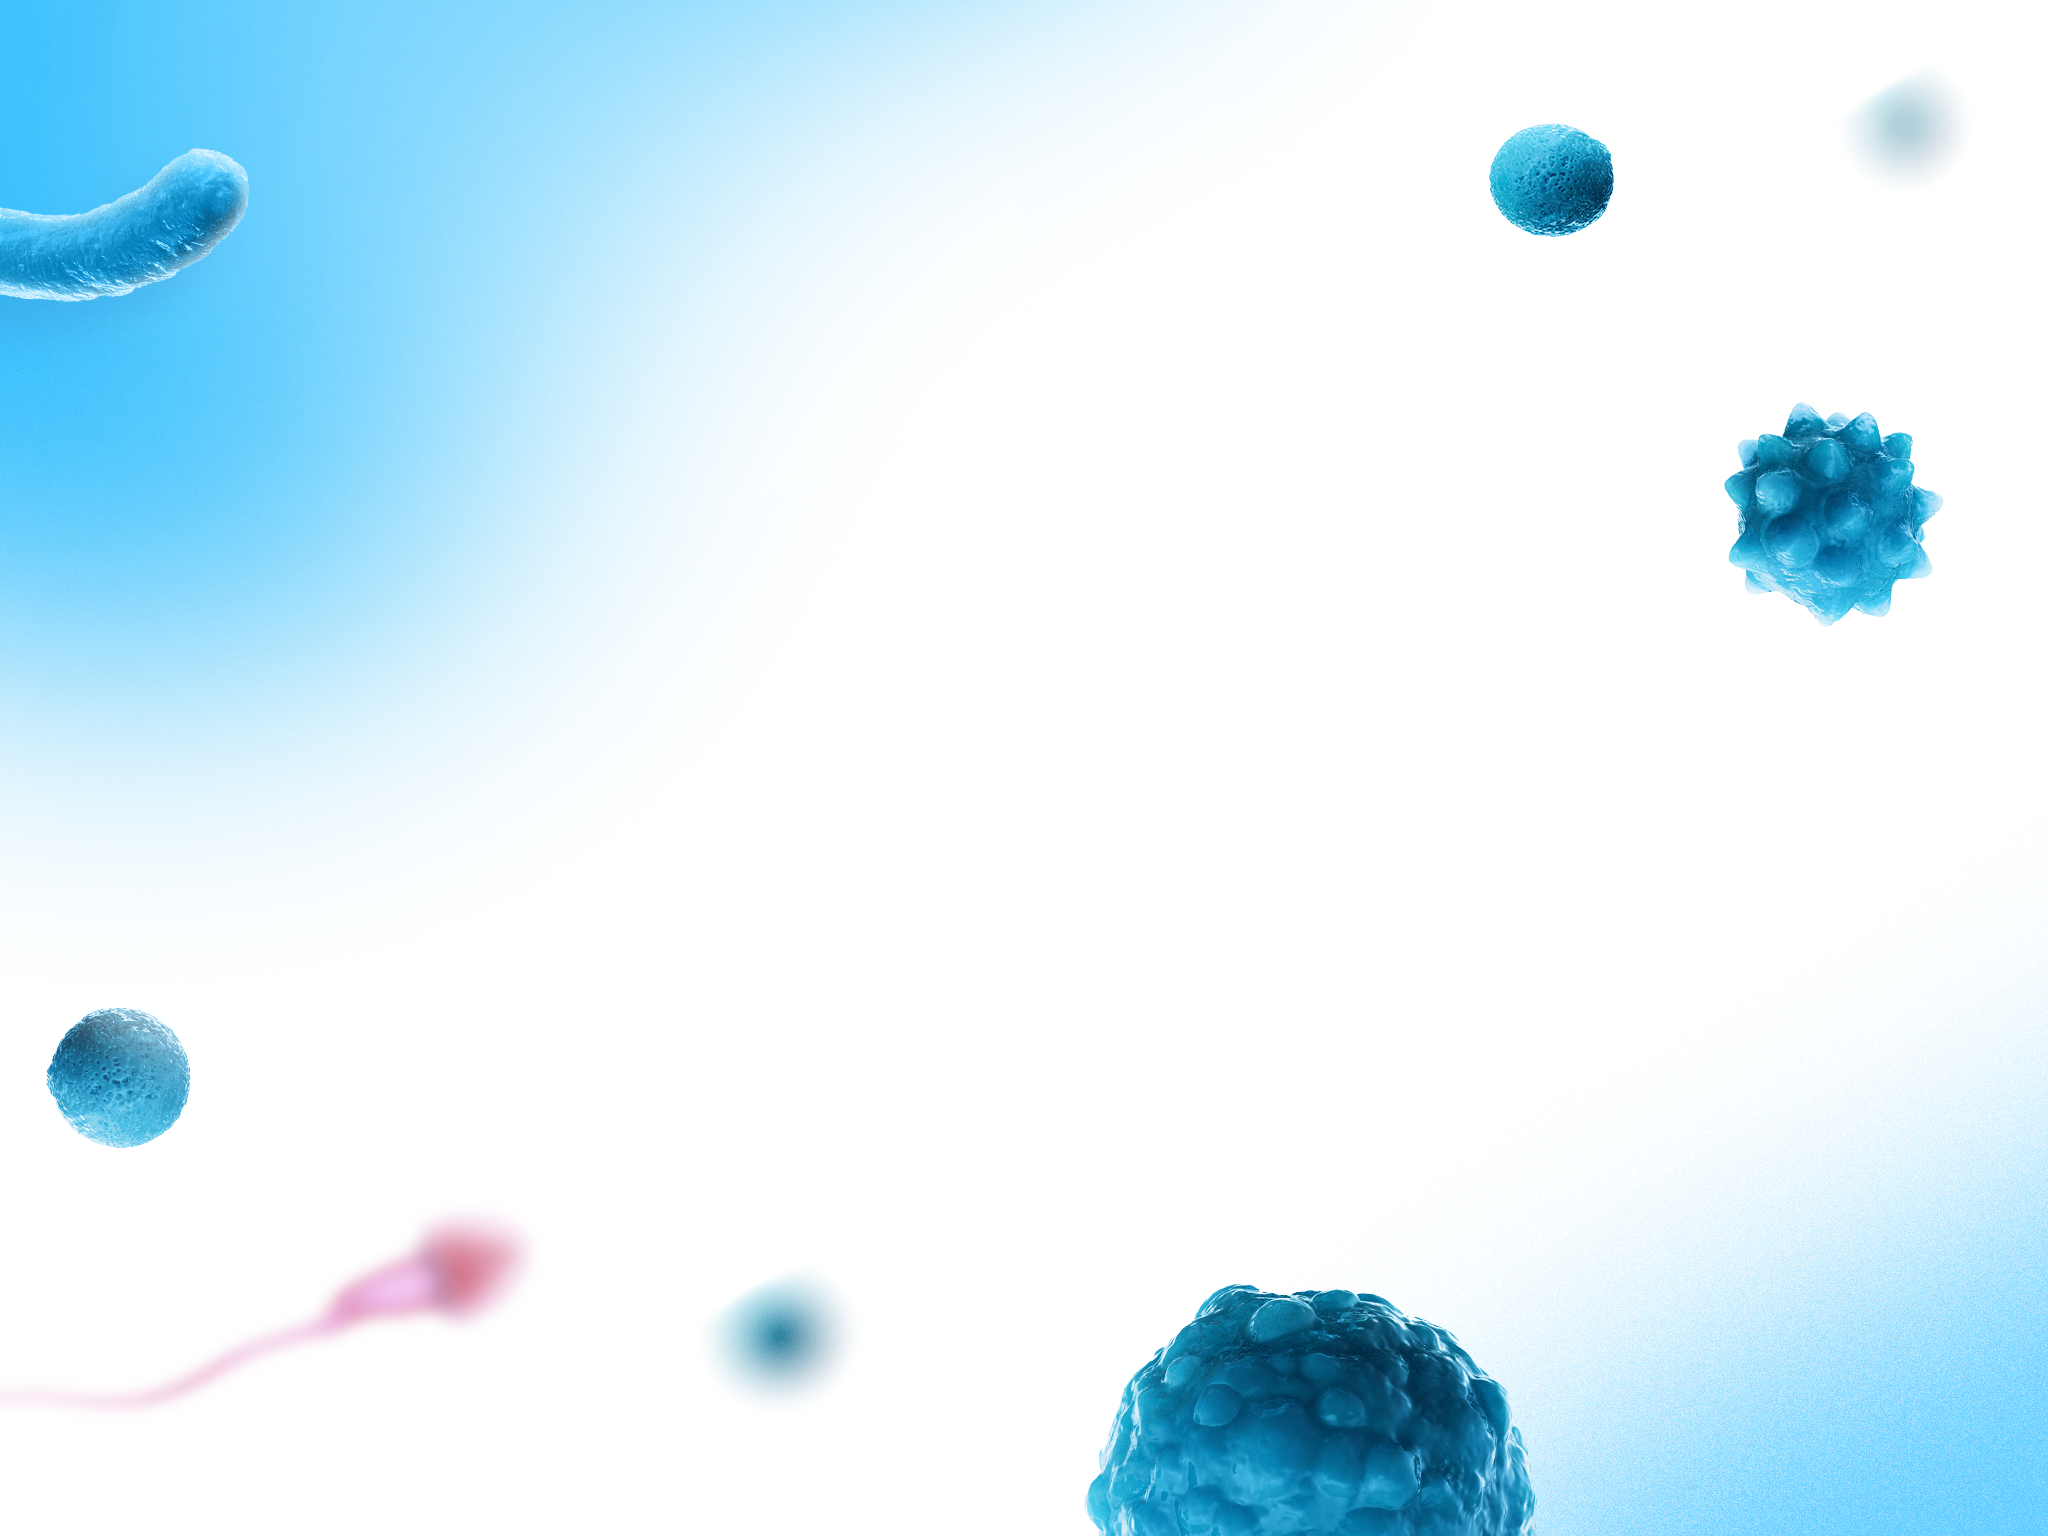
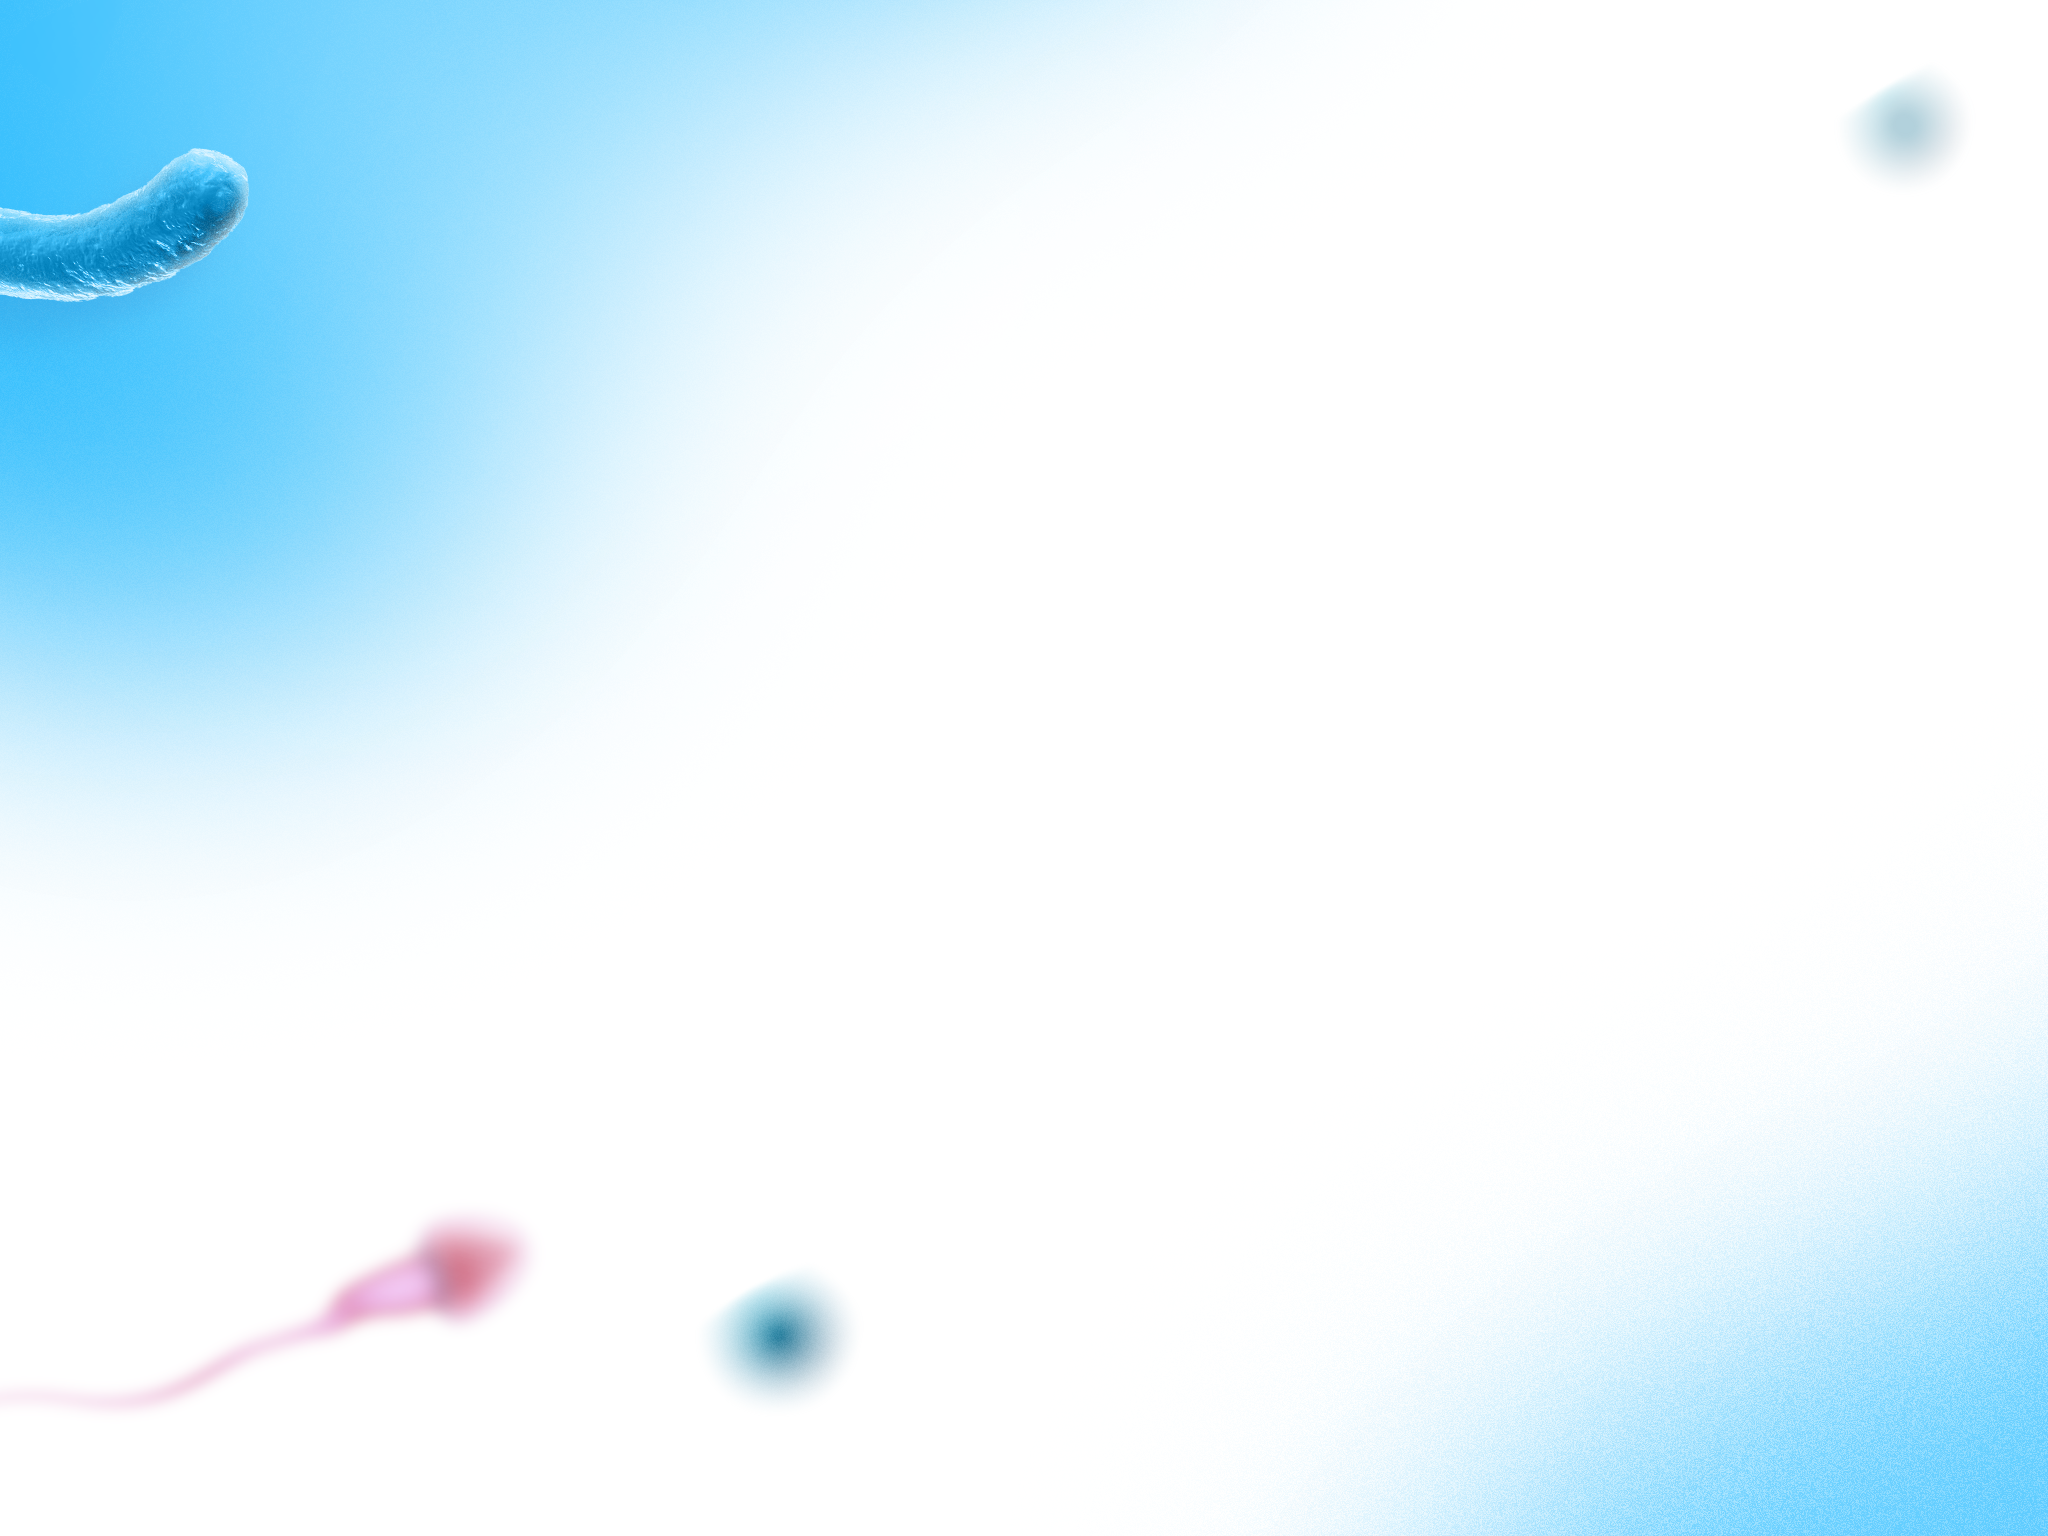
Добавил анимацию декоративным изображениям на 1 слайде

diff --git a/src/widgets/slides/FirstSlide.css b/src/widgets/slides/FirstSlide.css
@@ -19,12 +19,33 @@
 }
 
 .centerBlock__MainHeading {
+    position: relative;
     margin-top: 10px;
     font-size: 6.75rem;
     font-family: 'Gilroy', sans-serif;
     font-weight: 300;
     letter-spacing: 0.2rem;
     line-height: 1.05;
+    z-index: 10;
+}
+
+.centerBlock__FirstAnimatedImage {
+    position: absolute;
+    top: 70px;
+    right: 0;
+    width: 60px;
+    height: 55px;
+    animation: 4.5s ease-in-out 0s infinite firstBacteria;
+}
+
+.centerBlock__SecondAnimatedImage {
+    position: absolute;
+    top: 160px;
+    right: -160px;
+    width: 115px;
+    height: 110px;
+    animation: 20s ease-in-out 0s infinite secondBacteria;
+    z-index: 20;
 }
 
 .centerBlock__DecorationImage {
@@ -33,6 +54,24 @@
     right: -220px;
     width: 590px;
     height: 90px;
+}
+
+.centerBlock__ThirdAnimatedImage {
+    position: absolute;
+    bottom: 215px;
+    left: -45px;
+    width: 85px;
+    height: 80px;
+    animation: 8s ease-in-out 0s infinite thirdBacteria;
+}
+
+.centerBlock__FourthAnimatedImage {
+    position: absolute;
+    bottom: -90px;
+    right: 50px;
+    width: 225px;
+    height: 220px;
+    animation: 6s ease-in-out 0s infinite fourthBacteria;
 }
 
 .centerBlock__Button {
@@ -47,4 +86,160 @@
     border: none;
     border-radius: 40px;
     cursor: pointer;
+}
+
+@keyframes firstBacteria {
+    0% {
+        transform: translateX(0%) translateY(0%);
+    }
+    6.25% {
+        transform: translateX(-1.25%) translateY(1.75%);
+    }
+    12.5% {
+        transform: translateX(-2.5%) translateY(3.5%);
+    }
+    18.75% {
+        transform: translateX(-3.75%) translateY(5.25%);
+    }
+    25% {
+        transform: translateX(-5%) translateY(7%);
+    }
+    31.25% {
+        transform: translateX(-6.25%) translateY(5.25%);
+    }
+    37.5% {
+        transform: translateX(-7.5%) translateY(3.5%);
+    }
+    43.75% {
+        transform: translateX(-8.75%) translateY(1.75%);
+    }
+    50% {
+        transform: translateX(-10%) translateY(0%);
+    }
+    56.25% {
+        transform: translateX(-8.75%) translateY(-1.75%);
+    }
+    62.5% {
+        transform: translateX(-7.5%) translateY(-3.5%);
+    }
+    68.75% {
+        transform: translateX(-6.25%) translateY(-5.25%);
+    }
+    75% {
+        transform: translateX(-5%) translateY(-7%);
+    }
+    81.25% {
+        transform: translateX(-3.75%) translateY(-5.25%);
+    }
+    87.5% {
+        transform: translateX(-2.5%) translateY(-3.5%);
+    }
+    93.75% {
+        transform: translateX(-1.25%) translateY(-1.75%);
+    }
+    100% {
+        transform: translateX(0%) translateY(0%);
+    }
+}
+
+@keyframes secondBacteria {
+    0% {
+        transform: translateX(0%) translateY(0%) rotate(0deg);
+    }
+    6.25% {
+        transform: translateX(-5%) translateY(5.25%) rotate(10.5deg);
+    }
+    12.5% {
+        transform: translateX(-10%) translateY(10.5%) rotate(21deg);
+    }
+    18.75% {
+        transform: translateX(-15%) translateY(15.75%) rotate(31.5deg);
+    }
+    25% {
+        transform: translateX(-20%) translateY(21%) rotate(42deg);
+    }
+    31.25% {
+        transform: translateX(-25%) translateY(15.75%) rotate(52.5deg);
+    }
+    37.5% {
+        transform: translateX(-30%) translateY(10.5%) rotate(63deg);
+    }
+    43.75% {
+        transform: translateX(-35%) translateY(5.25%) rotate(73.5deg);
+    }
+    50% {
+        transform: translateX(-40%) translateY(0%) rotate(84deg);
+    }
+    56.25% {
+        transform: translateX(-35%) translateY(-10.5%) rotate(73.5deg);
+    }
+    62.5% {
+        transform: translateX(-30%) translateY(-21%) rotate(63deg);
+    }
+    68.75% {
+        transform: translateX(-25%) translateY(-31.5%) rotate(52.5deg);
+    }
+    75% {
+        transform: translateX(-20%) translateY(-42%) rotate(42deg);
+    }
+    81.25% {
+        transform: translateX(-15%) translateY(-31.5%) rotate(31.5deg);
+    }
+    87.5% {
+        transform: translateX(-10%) translateY(-21%) rotate(21deg);
+    }
+    93.75% {
+        transform: translateX(-5%) translateY(-10.5%) rotate(10.5deg);
+    }
+    100% {
+        transform: translateX(0%) translateY(0%) rotate(0deg);
+    }
+}
+
+@keyframes thirdBacteria {
+    0% {
+        transform: translateX(0%) translateY(0%);
+    }
+    12.5% {
+        transform: translateX(2.5%) translateY(15%);
+    }
+    25% {
+        transform: translateX(5%) translateY(30%);
+    }
+    37.5% {
+        transform: translateX(7.5%) translateY(45%);
+    }
+    50% {
+        transform: translateX(10%) translateY(60%);
+    }
+    62.5% {
+        transform: translateX(7.5%) translateY(45%);
+    }
+    75% {
+        transform: translateX(5%) translateY(30%);
+    }
+    87.5% {
+        transform: translateX(2.5%) translateY(15%);
+    }
+    100% {
+        transform: translateX(0%) translateY(0%);
+    }
+}
+
+@keyframes fourthBacteria {
+    0% {
+        transform: scale(1);
+    }
+    25% {
+        transform: scale(0.9);
+    }
+    50% {
+        transform: scale(0.8);
+    }
+    75% {
+        transform: scale(0.9);
+    }
+    100% {
+        transform: scale(1);
+    }
 }

diff --git a/src/widgets/slides/FirstSlide.tsx b/src/widgets/slides/FirstSlide.tsx
@@ -41,9 +41,33 @@ const FirstSlide: React.FC<SlideProps> = ({
         </h1>
 
         <img
+          src="/FirstAnimatedBacteriaImage.png"
+          alt=""
+          className="centerBlock__FirstAnimatedImage"
+        />
+
+        <img
+          src="/SecondAnimatedBacteriaImage.png"
+          alt=""
+          className="centerBlock__SecondAnimatedImage"
+        />
+
+        <img
           src="/decorationImages/SpermDecorationImage.png"
           alt=""
           className="centerBlock__DecorationImage"
+        />
+
+        <img
+          src="/ThirdAnimatedBacteriaImage.png"
+          alt=""
+          className="centerBlock__ThirdAnimatedImage"
+        />
+
+        <img
+          src="/FourthAnimatedBacteriaImage.png"
+          alt=""
+          className="centerBlock__FourthAnimatedImage"
         />
 
         <button
